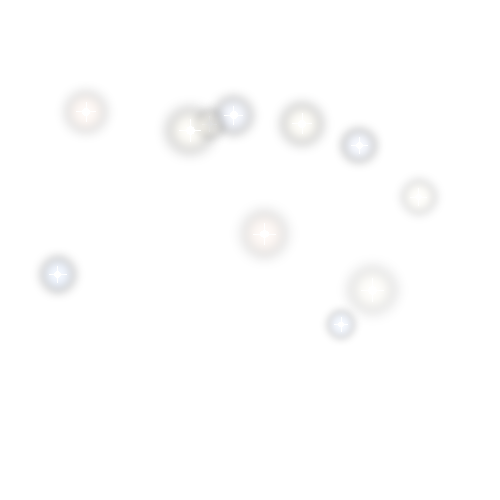
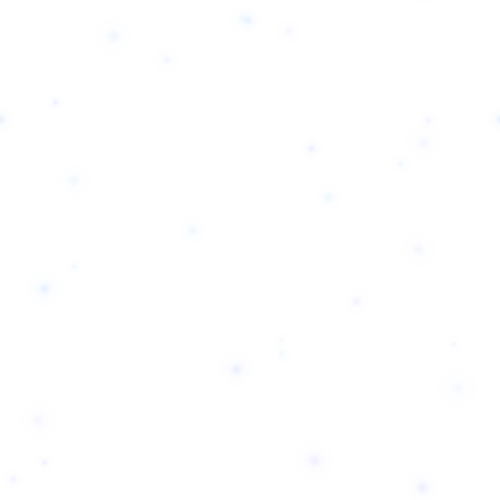
fix: ship travel feel — dead-zone cam, absolute Ortung, sparse stars
Restore soft dead-zone camera so the ship drifts on screen while stick
thrust still advances world coords (no glued-to-center after EnemyAi merge).
Accumulate BG scroll from cam motion (never -camX) and fold tile offsets
into the mirror period to kill wrap/parallax hitch. Ortung uses absolute
world positions so the player blip moves across the arena. Regenerate
ultra-sparse soft star layers + low-contrast nebula.

diff --git a/app/src/main/java/com/stoni/androidstone/ui/screens/PlayScreen.kt b/app/src/main/java/com/stoni/androidstone/ui/screens/PlayScreen.kt
@@ -47,6 +47,7 @@ import androidx.compose.ui.graphics.drawscope.DrawScope
 import androidx.compose.ui.graphics.drawscope.Stroke
 import androidx.compose.ui.graphics.drawscope.rotate
 import androidx.compose.ui.graphics.drawscope.scale
+import androidx.compose.ui.graphics.drawscope.translate
 import androidx.compose.ui.input.pointer.pointerInput
 import androidx.compose.ui.layout.ContentScale
 import androidx.compose.ui.platform.LocalContext
@@ -55,7 +56,6 @@ import androidx.compose.ui.text.font.FontFamily
 import androidx.compose.ui.text.font.FontWeight
 import androidx.compose.ui.text.style.TextAlign
 import androidx.compose.ui.unit.Dp
-import androidx.compose.ui.unit.IntOffset
 import androidx.compose.ui.unit.IntSize
 import androidx.compose.ui.unit.dp
 import androidx.compose.ui.unit.sp
@@ -419,21 +419,34 @@ fun PlayScreen(onExit: () -> Unit) {
             shipPx = wrapCoord(shipPx, WORLD_W)
             shipPy = wrapCoord(shipPy, WORLD_H)
 
-            // Soft continuous camera (wrapDelta) — no dead-zone snap across torus wrap.
-            // Ship sits ~58% screen height (lower/centered); mild velocity look-ahead.
-            val shipScreenYFrac = 0.58f
-            val biasY = (shipScreenYFrac - 0.5f) * sh
-            val lookT = 9f
-            val targetCamX = shipPx + shipVx * lookT
-            val targetCamY = shipPy + shipVy * lookT - biasY
-            val cdx = wrapDelta(targetCamX - camX, WORLD_W)
-            val cdy = wrapDelta(targetCamY - camY, WORLD_H)
-            val follow = 0.13f
-            camX = wrapCoord(camX + cdx * follow, WORLD_W)
-            camY = wrapCoord(camY + cdy * follow, WORLD_H)
+            // Soft dead-zone camera (wrapDelta): ship drifts on screen inside margins;
+            // cam only catches up outside the zone — no glued-to-center feel, no mid-map snap.
+            // Prefer ship slightly below screen center (~58% Y).
+            val preferY = (0.58f - 0.5f) * sh
+            val dx = wrapDelta(shipPx - camX, WORLD_W)
+            val dy = wrapDelta(shipPy - preferY - camY, WORLD_H)
+            val marginX = sw * 0.30f
+            val marginY = sh * 0.28f
+            val adjDx = when {
+                dx < -marginX -> dx + marginX
+                dx > marginX -> dx - marginX
+                else -> 0f
+            }
+            val adjDy = when {
+                dy < -marginY -> dy + marginY
+                dy > marginY -> dy - marginY
+                else -> 0f
+            }
+            val follow = 0.18f
+            val moveX = adjDx * follow
+            val moveY = adjDy * follow
+            camX = wrapCoord(camX + moveX, WORLD_W)
+            camY = wrapCoord(camY + moveY, WORLD_H)
 
-            bgOffsetX = -camX
-            bgOffsetY = -camY
+            // Continuous parallax scroll: accumulate cam motion only — never assign -camX
+            // (world wrap would jump by WORLD*parallax, which is not an integer tile period).
+            bgOffsetX -= moveX
+            bgOffsetY -= moveY
 
             if (isTouching) {
                 if (fireCd > 0) {
@@ -862,7 +875,7 @@ fun PlayScreen(onExit: () -> Unit) {
             // Deep-space arena: sparse large stars + soft nebula, mirror→normal tiling (seamless edges).
             drawSeamlessTiledMirrored(starFar, bgOffsetX * 0.22f, bgOffsetY * 0.22f, w, h)
             bgNebula?.let {
-                drawSeamlessTiledMirrored(it, bgOffsetX * 0.10f, bgOffsetY * 0.10f, w, h, alpha = 0.32f, tileScale = 1.6f)
+                drawSeamlessTiledMirrored(it, bgOffsetX * 0.12f, bgOffsetY * 0.12f, w, h, alpha = 0.28f, tileScale = 1f)
             }
             drawSeamlessTiledMirrored(starMid, bgOffsetX * 0.45f, bgOffsetY * 0.45f, w, h)
             drawSeamlessTiledMirrored(starNear, bgOffsetX * 0.85f, bgOffsetY * 0.85f, w, h)
@@ -1389,7 +1402,7 @@ fun PlayScreen(onExit: () -> Unit) {
                     modifier = Modifier.align(Alignment.Center)
                 )
             }
-            // Ortung minimap — bottom-right; blips recomputed each frame (ship-relative)
+            // Ortung minimap — bottom-right; absolute world blips (player moves across arena)
             if (!gameOver) {
                 ArenaMinimap(
                     modifier = Modifier
@@ -1480,15 +1493,18 @@ private fun ArenaMinimap(
                     style = Stroke(width = 1.2f)
                 )
                 val mapR = r - 8f
-                // Radar range around ship; blips = toroidal relative positions each frame
-                val radarRange = max(worldW, worldH) * 0.20f
+                // Absolute wrapped world → round arena (player blip MOVES across map)
+                val span = max(worldW, worldH)
+                fun toMx(wx: Float): Float =
+                    cx + ((wrapCoord(wx, worldW) / worldW) - 0.5f) * 2f * mapR * (worldW / span)
+                fun toMy(wy: Float): Float =
+                    cy + ((wrapCoord(wy, worldH) / worldH) - 0.5f) * 2f * mapR * (worldH / span)
                 drawCircle(
                     color = Color(0x184FC3F7),
                     radius = mapR,
                     center = Offset(cx, cy),
                     style = Stroke(width = 1.5f)
                 )
-                // Range rings
                 drawCircle(
                     color = Color(0x104FC3F7),
                     radius = mapR * 0.5f,
@@ -1496,10 +1512,8 @@ private fun ArenaMinimap(
                     style = Stroke(width = 1f)
                 )
                 enemies.forEach { e ->
-                    val rdx = wrapDelta(e.x - shipX, worldW)
-                    val rdy = wrapDelta(e.y - shipY, worldH)
-                    val ex = cx + (rdx / radarRange) * mapR
-                    val ey = cy + (rdy / radarRange) * mapR
+                    val ex = toMx(e.x)
+                    val ey = toMy(e.y)
                     val ddx = ex - cx
                     val ddy = ey - cy
                     if (ddx * ddx + ddy * ddy > mapR * mapR) return@forEach
@@ -1513,7 +1527,9 @@ private fun ArenaMinimap(
                         center = Offset(ex, ey)
                     )
                 }
-                // Player triangle at center = live heading
+                // Player triangle at absolute world pos — moves across arena while heading rotates
+                val px = toMx(shipX)
+                val py = toMy(shipY)
                 val tip = 7.5f
                 val base = 5.2f
                 val rad = (shipAngle - 90f) * (PI / 180.0)
@@ -1523,9 +1539,9 @@ private fun ArenaMinimap(
                 val ly = fx
                 val path = Path().apply {
                     fillType = PathFillType.EvenOdd
-                    moveTo(cx + fx * tip, cy + fy * tip)
-                    lineTo(cx - fx * tip * 0.55f + lx * base, cy - fy * tip * 0.55f + ly * base)
-                    lineTo(cx - fx * tip * 0.55f - lx * base, cy - fy * tip * 0.55f - ly * base)
+                    moveTo(px + fx * tip, py + fy * tip)
+                    lineTo(px - fx * tip * 0.55f + lx * base, py - fy * tip * 0.55f + ly * base)
+                    lineTo(px - fx * tip * 0.55f - lx * base, py - fy * tip * 0.55f - ly * base)
                     close()
                 }
                 drawPath(path, Color(0xFF00E5FF).copy(alpha = 0.35f))
@@ -1624,7 +1640,9 @@ private fun DrawScope.drawSpriteOrOval(img: ImageBitmap?, cx: Float, cy: Float, 
 /**
  * Seamless mirror tiling: tile (i,j) uses scale(±1,±1) from i%2 / j%2
  * (mirror → normal → mirror → …). Shared edges always match. Native bitmap
- * size (× tileScale) — never stretch one tile to the full screen (avoids jumps).
+ * size (× tileScale) — never stretch one tile to the full screen.
+ * Offsets are folded into one mirror-period (2×tile) so scroll stays continuous
+ * with no hitch/pop when the camera wraps the torus.
  */
 private fun DrawScope.drawSeamlessTiledMirrored(
     img: ImageBitmap,
@@ -1638,17 +1656,27 @@ private fun DrawScope.drawSeamlessTiledMirrored(
     val tw = img.width.toFloat() * tileScale
     val th = img.height.toFloat() * tileScale
     if (tw < 1f || th < 1f) return
+    // Mirror period = 2 tiles; positive modulo keeps indices bounded without a visual jump.
+    val periodX = tw * 2f
+    val periodY = th * 2f
+    var ox = offX % periodX
+    if (ox > 0f) ox -= periodX
+    if (ox <= -periodX) ox += periodX
+    var oy = offY % periodY
+    if (oy > 0f) oy -= periodY
+    if (oy <= -periodY) oy += periodY
     val pad = 1f
-    val startCol = floor(-offX / tw).toInt() - 1
-    val endCol = ceil((sw - offX) / tw).toInt() + 1
-    val startRow = floor(-offY / th).toInt() - 1
-    val endRow = ceil((sh - offY) / th).toInt() + 1
+    val startCol = floor(-ox / tw).toInt() - 1
+    val endCol = ceil((sw - ox) / tw).toInt() + 1
+    val startRow = floor(-oy / th).toInt() - 1
+    val endRow = ceil((sh - oy) / th).toInt() + 1
     for (col in startCol..endCol) {
         for (row in startRow..endRow) {
-            val posX = offX + col * tw
-            val posY = offY + row * th
-            val flipX = if (col % 2 != 0) -1f else 1f
-            val flipY = if (row % 2 != 0) -1f else 1f
+            val posX = ox + col * tw
+            val posY = oy + row * th
+            // Kotlin rem can be negative; normalize parity for stable flip
+            val flipX = if (((col % 2) + 2) % 2 != 0) -1f else 1f
+            val flipY = if (((row % 2) + 2) % 2 != 0) -1f else 1f
             scale(scaleX = flipX, scaleY = flipY, pivot = Offset(posX + tw / 2f, posY + th / 2f)) {
                 drawImg(img, posX - pad, posY - pad, tw + pad * 2f, th + pad * 2f, alpha)
             }
@@ -1664,12 +1692,14 @@ private fun DrawScope.drawImg(
     dh: Float,
     alpha: Float = 1f
 ) {
-    drawImage(
-        image = img,
-        dstOffset = IntOffset(x.toInt(), y.toInt()),
-        dstSize = IntSize(dw.toInt().coerceAtLeast(1), dh.toInt().coerceAtLeast(1)),
-        alpha = alpha,
-        filterQuality = FilterQuality.Low
-    )
+    // Sub-pixel translate avoids 1px hitching from IntOffset truncation while scrolling.
+    translate(left = x, top = y) {
+        drawImage(
+            image = img,
+            dstSize = IntSize(dw.toInt().coerceAtLeast(1), dh.toInt().coerceAtLeast(1)),
+            alpha = alpha,
+            filterQuality = FilterQuality.Low
+        )
+    }
 }
 
